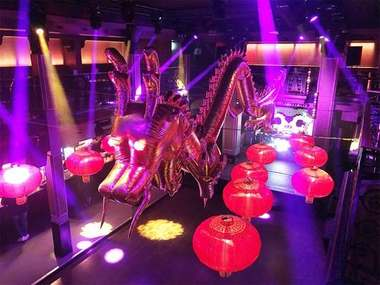
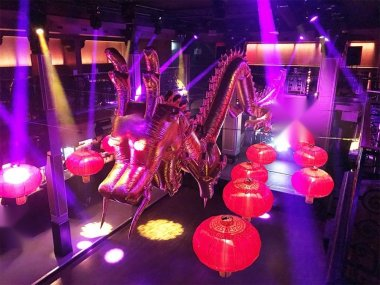
Photo dragon chinois : personne et décor à motifs chinois effacés ; retrait de « on vous conseille ce qui va bien ensemble »

diff --git a/index.html b/index.html
@@ -169,7 +169,7 @@
         <li class="step">
           <span class="step-num">2</span>
           <h3>Dites-nous votre projet</h3>
-          <p>Votre thème, votre date, votre lieu. On vous confirme la dispo et on vous conseille ce qui va bien ensemble.</p>
+          <p>Votre thème, votre date, votre lieu. On vous confirme la disponibilité.</p>
         </li>
         <li class="step">
           <span class="step-num">3</span>
